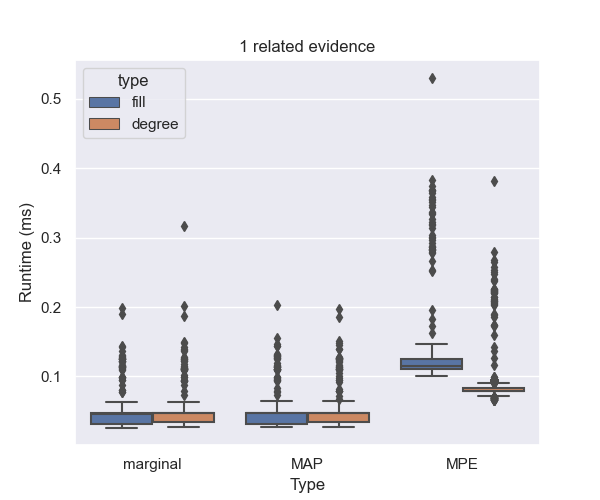
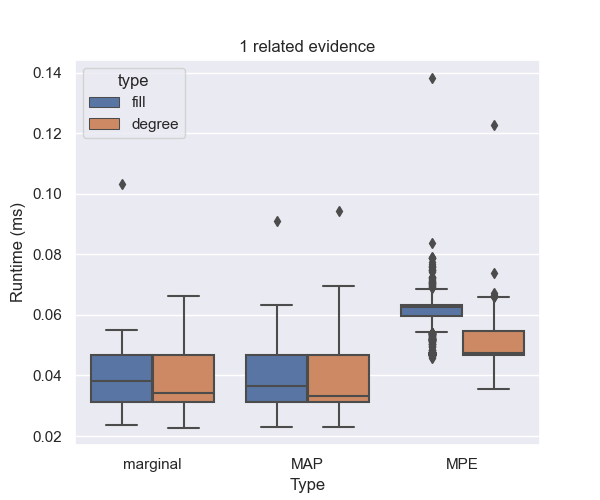
implements the boxplots

diff --git a/BNReasoner_pruning.py b/BNReasoner_pruning.py
@@ -8,7 +8,8 @@ import numpy as np
 import seaborn as sns
 import matplotlib.pyplot as plt
 import os
-
+import pickle
+import scipy.stats as stats
 print("Finished importing")
 
 class BNReasoner_:
@@ -580,6 +581,7 @@ class BNReasoner_:
 
         return n  
 
+# Setup of the settings to run the experiment
 Pruning = False
 check_d_separation = False
 Independence = False
@@ -594,21 +596,19 @@ Mpe = True
 
 #file = "testing/lecture_example.BIFXML"
 file = "testing/usecase.BIFXML"
-#Queri, evidence = ["Wet Grass?"], {"Rain?": False, "Winter?": True}
-#Queri, evidence = ['liver-biopsy'], {"hepatitis":True, "cirrhosis":False, 'metastases':True}
-
+output_folder = "output/"
 trials = 1000
 qs = [
-    ['hepatitis'],
-    ['hepatitis'],
+    ['genetic-predisposition-cancer'],
+    ['genetic-predisposition-cancer'],
     ['genetic-predisposition-cancer'],
     ['genetic-predisposition-cancer']
 ]
 es = [
-    {"liver-cancer":True},
-    {"liver-cancer":True, "liver-biopsy":False, "cirrhosis":True, "jaundice":True, "excessive-alcohol-use":True},
+    {"breast-cancer":True},
+    {"liver-cancer":True, "breast-cancer":False, "colon-cancer":True, "metastases":True},#, "excessive-alcohol-use":True},
     {"cirrhosis":False},
-    {"hepatitis":True, "jaundice":False, "excessive-alcohol-use":True, "liver-biopsy":False}
+    {"hepatitis":True, "jaundice":False, "excessive-alcohol-use":True, "liver-biopsy":False,"cirrhosis":False}
 ]
 text_to_plot = [
     "1 related evidence",
@@ -616,8 +616,10 @@ text_to_plot = [
     "1 unrelated evidence",
     "all unrelated evidence"
 ]
+everything_combined = []
 
 for iter in range(len(qs)):
+    print(f"Currently checking: {text_to_plot[iter]}")
     Queri, evidence = qs[iter], es[iter]
 
     result_marginal = {'data_fill':[], 'data_degree':[]}
@@ -626,7 +628,8 @@ for iter in range(len(qs)):
 
     for trial_number in range(trials):
         if trial_number % 10 == 0:
-            print(f"Trail: {trial_number}")
+            #print(f"Trail: {trial_number}")
+            pass
         if Pruning:
             #Test case, show pruning is working as it should by showing that it returns the same (pruned) BN and CPTs as slide 31 of the third Bayes' lecture
             bnreasoner = BNReasoner_(file)
@@ -799,23 +802,7 @@ for iter in range(len(qs)):
             elapsed_time = time.time()
             result_mpe['data_fill'].append(elapsed_time - current_time)
 
-
-    #print(data_to_plot)
-
-    '''
-    result_marginal = {'data_fill':[], 'data_degree':[]}
-    result_map = {'data_fill':[], 'data_degree':[]}
-    result_mpe = {'data_fill':[], 'data_degree':[]}
-
-    result_marginal['data_fill'] = [0,0]
-    result_marginal['data_degree'] = [1,0]
-    result_map['data_fill'] = [0,0]
-    result_map['data_degree'] = [0,2]
-    result_mpe['data_fill'] = [0,0]
-    result_mpe['data_degree'] = [3,0]
-    '''
-
-
+    # Merge the runtimes and place them in boxplots
     total = pd.DataFrame()
     data = [result_marginal, result_map, result_mpe]
     names = ['marginal', 'MAP', 'MPE']
@@ -829,20 +816,9 @@ for iter in range(len(qs)):
         df_new['label'] = names[method]
         total = pd.concat([total, df_new])
 
-        '''
+        print(f"T-Test for method {names[method]}:")
+        print(stats.ttest_ind(data[method]["data_fill"],data[method]["data_degree"]))
 
-        result_values = pd.DataFrame(data[method], columns='values')
-        result_values['type'] = names[method]
-        total = pd.concat([total, result_values])
-
-        result = pd.DataFrame(value['data_degree'], columns=['values'])
-        result['type'] = 'Minimum degree'
-        df_x = pd.DataFrame(value['data_fill'], columns=['values'])
-        df_x['type']='Minimum fill'
-        df = pd.concat([result, df_x])
-        df['label'] = value["label"]
-        total = pd.concat([total, df])
-        '''
     #print(total)
     fig = plt.figure(figsize=(6,5))    
     fig.set_dpi(1200)
@@ -864,15 +840,29 @@ for iter in range(len(qs)):
     plt.title(text_to_plot[iter])
     plt.ylabel("Runtime (ms)")
     plt.xlabel("Type")
-    #plt.legend()
 
     # Create the output folder if it doesn't exist
-    output_folder = "output/"
     if not os.path.exists(output_folder):
         os.makedirs(output_folder)
-    #plt.show()
+    
     output_file = output_folder + f"boxplot_{text_to_plot[iter]}_.png"
     print(output_file)
-    #plt.tight_layout()
     plt.savefig(output_file)
     plt.clf()
+
+    everything_combined.append(total)
+
+''' # If needed, dump all information to a pickle.
+# Dump all information into a file
+myFile = open(output_folder+'data.pkl', 'wb')
+pickle.dump(total, myFile)
+myFile.close()
+
+# Retrieve the data from the dumped file
+lala = open(output_folder+'data.pkl', 'rb')
+gggg = pickle.load(lala)
+lala.close()
+
+# If the data has to be displayed:
+#print(gggg)
+'''
